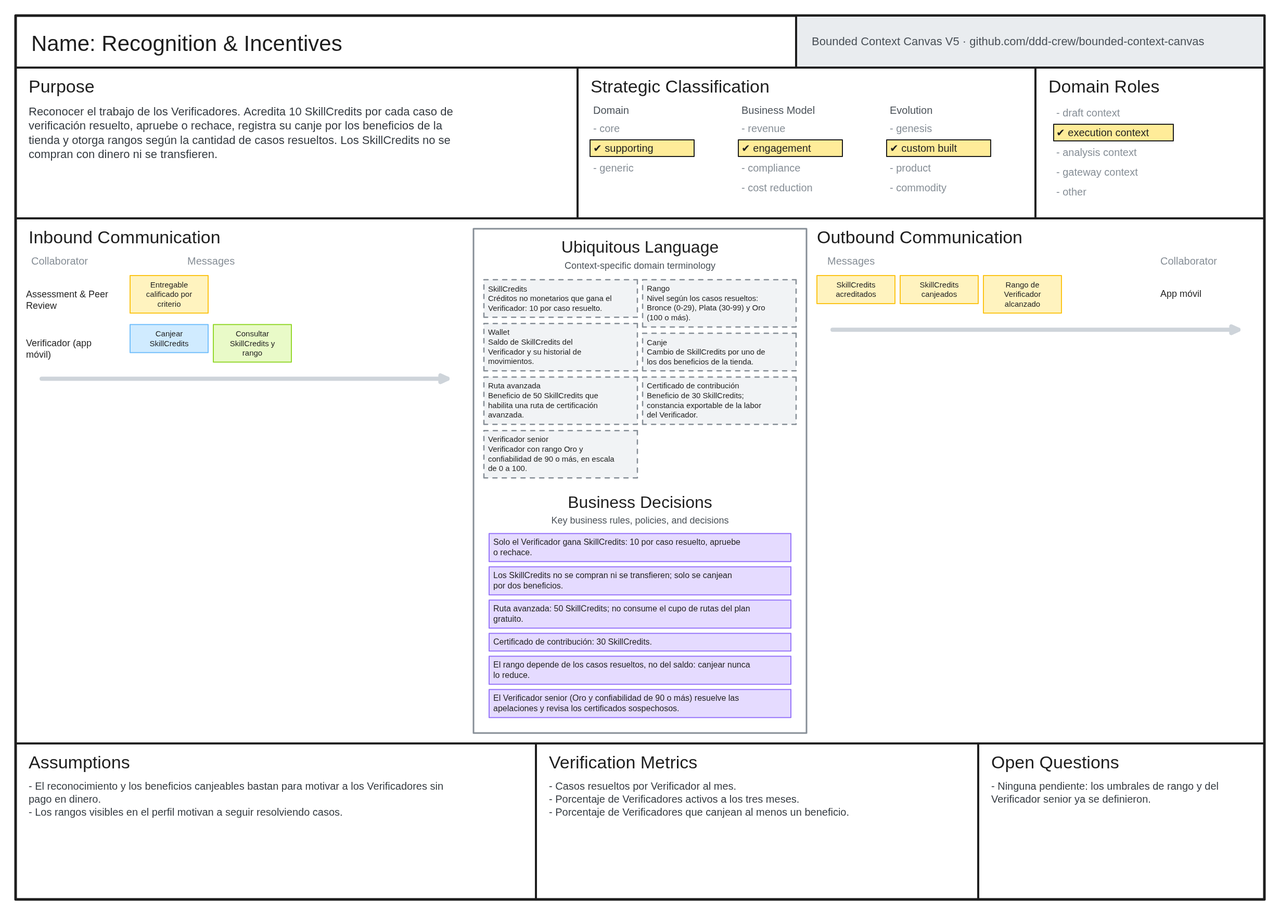
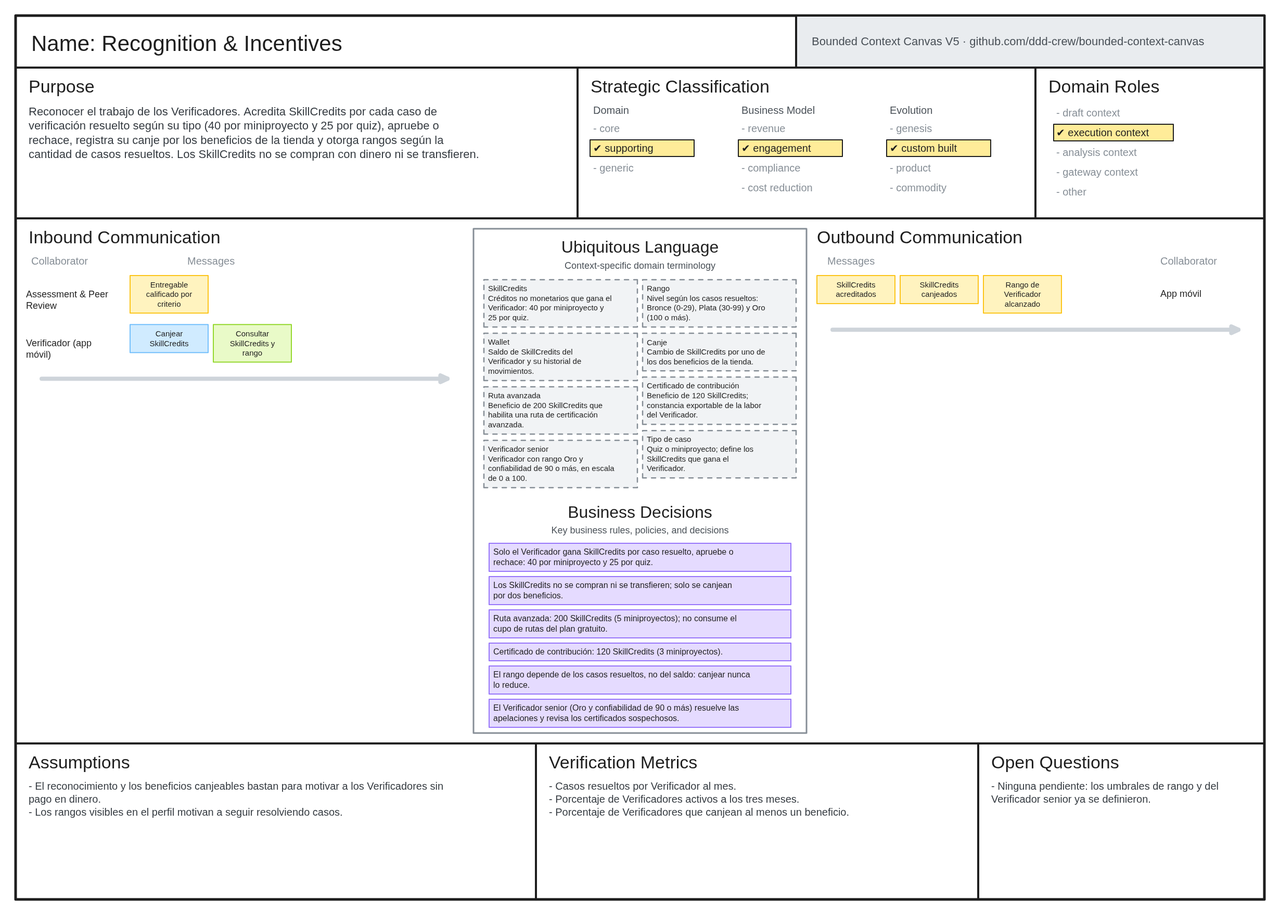
docs(report): per-case-type SkillCredits economy and scaled store prices

Changed region(s): [[0.3707, 0.3125, 0.6179, 0.8125], [0.0309, 0.0938, 0.3707, 0.1875], [0.5561, 0.4062, 0.587, 0.4375]]

diff --git a/upc-pre-02-1acc0238-4948-Innovify-report-avn1.md b/upc-pre-02-1acc0238-4948-Innovify-report-avn1.md
@@ -68,7 +68,7 @@ Octubre 2026
 | **v.01.Avn1** | 10/09/2026 | Alberca Saavedra, Víctor Manuel<br>Becerra Ninahuanca, Luis Angel<br>Lopez Montalvo, Kevin Edu<br>Komatsu Dueñas, David<br>Sulca Sánchez, Piero Angel | Se agregaron los siguientes tópicos:<br><br>**Student Outcome**<br>**Objetivos SMART**<br><br>**Capítulo I: Presentación**<br>1.1. Startup Profile<br>1.1.1. Descripción de la Startup<br>1.1.2. Perfiles de integrantes del equipo<br>1.2. Solution Profile<br>1.2.1. Antecedentes y problemática<br>1.2.2. Lean UX Process<br>1.2.2.1. Lean UX Problem Statements<br>1.2.2.2. Lean UX Assumptions<br>1.2.2.3. Lean UX Hypothesis Statements<br>1.2.2.4. Lean UX Canvas<br>1.3. Segmentos objetivo<br><br>**Capítulo II: Requirements Development and Software Solution Design**<br>2.1. Competidores<br>2.1.1. Análisis competitivo<br>2.1.2. Estrategias y tácticas frente a competidores<br>2.2. Entrevistas<br>2.2.1. Diseño de entrevistas<br>2.2.2. Registro de entrevistas<br>2.2.3. Análisis de entrevistas<br>2.3. Needfinding<br>2.3.1. User Personas<br>2.3.2. User Task Matrix<br>2.3.3. User Journey Mapping<br>2.3.4. Empathy Mapping<br>2.3.5. As-Is Scenario Mapping<br>2.4. Requirements specification<br>2.4.1. User Stories<br>2.4.2. Impact Mapping<br>2.4.3. Product Backlog<br>2.5. Strategic-Level Domain-Driven Design<br>2.5.1. EventStorming<br>2.5.1.1. Candidate Context Discovery<br>2.5.1.2. Domain Message Flows Modeling<br>2.5.1.3. Bounded Context Canvases<br>2.5.2. Context Mapping<br>2.5.3. Software Architecture<br>2.5.3.1. Software Architecture Context Level Diagrams<br>2.5.3.2. Software Architecture Container Level Diagrams<br>2.5.3.3. Software Architecture Deployment Diagrams<br>2.6. Tactical-Level Domain-Driven Design (los 7 Bounded Contexts: Identity & Access, Credential Verification, Learning Path Engine, Assessment & Peer Review, Reputation, Recognition & Incentives, Moderation & Disputes)<br>2.6.x.1. Domain Layer<br>2.6.x.2. Interface Layer<br>2.6.x.3. Application Layer<br>2.6.x.4. Infrastructure Layer<br>2.6.x.5. Bounded Context Software Architecture Component Level Diagrams<br>2.6.x.6. Bounded Context Software Architecture Code Level Diagrams<br>2.6.x.6.1. Bounded Context Domain Layer Class Diagrams<br>2.6.x.6.2. Bounded Context Database Design Diagram<br><br>**Conclusiones**<br>**Bibliografía** |
 | **v.02.TB1** | 07/10/2026 |  Alberca Saavedra, Víctor Manuel<br>Becerra Ninahuanca, Luis Angel<br>Lopez Montalvo, Kevin Edu<br>Komatsu Dueñas, David<br>Sulca Sánchez, Piero Angel | Se corrigieron y actualizaron los siguientes tópicos, a partir de las decisiones reales tomadas durante la construcción del backend:<br><br>**Capítulo I: Presentación**<br>1.1.1. Descripción de la Startup (modelo de negocio: suscripción mensual vía Google Play Billing, SkillCredits no adquiribles)<br>1.1.2. Perfiles de integrantes del equipo<br>1.2.1. Antecedentes y problemática (corrección de Identity & Access: dominio institucional exigido desde el registro)<br>1.2.2. Lean UX Process (pasarela de pago unificada a Google Play Billing)<br>1.3. Segmentos objetivo<br><br>**Capítulo II: Requirements Development and Software Solution Design**<br>2.1. Competidores<br>2.4.1. User Stories (corrección de US05, US06, US18, US22, US24, US25, US26; se difirieron US07, US19, US20; se agregaron TS11 y TS12)<br>2.4.3. Product Backlog (55 → 57 historias, 204 → 211 Story Points; columna Sprint completada)<br>2.5.1. EventStorming (pasarela de pago y validación de correo institucional)<br>2.5.2. Context Mapping (pasarela de pago, mecanismo de eventos de dominio entre Assessment & Peer Review, Reputation y Recognition & Incentives)<br>2.5.3.1. Software Architecture Context Level Diagrams<br>2.5.3.2. Software Architecture Container Level Diagrams (colapso de los ocho Bounded Contexts en un único contenedor de API, consistente con el nivel de un Container Diagram)<br>2.5.3.3. Software Architecture Deployment Diagrams (MySQL → PostgreSQL, corrección del origen de la llamada a ML Kit)<br>2.6.4. Bounded Context: Assessment & Peer Review (reescritura completa al modelo mínimo realmente implementado)<br>2.6.4.5. Component Diagram de Assessment & Peer Review<br>2.6.5.5. Component Diagram de Reputation<br>2.6.6. Bounded Context: Recognition & Incentives (renombrado de Wallet & Incentives) y su Component Diagram<br>2.6.8. Bounded Context: Subscription & Billing (pasarela renombrada a Google Play Billing; `charge()` corregido a `verifyPurchase()`)<br>Diagrama de Clases general (eliminación de la clase `CreditPurchase`, corrección de `VerifierProfile`, `VerificationCase`, `CreditTransaction`, `Subscription`)<br>Diagrama de Base de Datos general (migración completa a PostgreSQL, corrección de índices únicos parciales, eliminación de `credit_purchases`)<br><br>**Student Outcome** (acumulado con el aporte de TB1 de los cinco integrantes)<br>**Objetivos SMART** (ajuste del objetivo de Alberca Saavedra, Víctor Manuel)<br>**Project Report Collaboration Insights** (acumulado con la evidencia de TB1)<br>**Conclusiones** (tres párrafos nuevos sobre las contradicciones resueltas entre el diseño y la implementación real)<br><br>Se agregaron los siguientes tópicos nuevos:<br><br>**Capítulo III: Solution UI/UX Design**<br>3.1.1. Style Guidelines<br>3.1.2. Information Architecture<br>3.1.3. Landing Page UI Design<br>3.1.4. Mobile Applications UX/UI Design<br><br>**Capítulo IV: Product Implementation & Validation**<br>4.1. Software Configuration Management<br>4.1.1. Software Development Environment Configuration<br>4.1.2. Source Code Management<br>4.1.3. Source Code Style Guide & Coding Conventions<br>4.1.4. Software Deployment Configuration<br>4.2. Landing Page, Services & Applications Implementation<br>4.2.1. Sprint 1<br>4.2.1.1. Sprint Planning 1<br>4.2.1.2. Aspect Leaders and Collaborators<br>4.2.1.3. Sprint Backlog 1<br>4.2.1.4. Development Evidence for Sprint Review<br>4.2.1.5. Testing Suite Evidence for Sprint Review<br>4.2.1.6. Execution Evidence for Sprint Review<br>4.2.1.7. Services Documentation Evidence for Sprint Review<br>4.2.1.8. Software Deployment Evidence for Sprint Review<br>4.2.1.9. Team Collaboration Insights during Sprint |
 | **v.03.TB1** | 08/10/2026 | Komatsu Dueñas, David | Se corrigieron los siguientes tópicos:<br><br>**Capítulo I: Presentación**<br>1.1.1. Descripción de la Startup (modelo freemium, habilitación del Verificador en la primera versión y revisión del Verificador como decisión con observaciones)<br>1.1.2. Perfiles de integrantes del equipo (términos del Anexo F)<br>1.2.2.1. Lean UX Problem Statements (revisión del Verificador como decisión con observaciones, según el modelo implementado)<br><br>**Capítulo II: Requirements Development and Software Solution Design**<br>2.1. Competidores, 2.1.1. Análisis competitivo y 2.1.2. Estrategias y tácticas frente a competidores (roadmap.sh, Pluralsight y Platzi como competidores directos)<br>2.5.1. EventStorming (ajustes del modelo posteriores a la sesión)<br>2.3.3 y 2.3.4 (Journey Map y Empathy Map del segmento 2 alineados con el rol de Verificador)<br>2.6.4 y 2.6.8 (examen de ingreso y límite de intentos previstos para un sprint posterior; pasarela de pago Google Play Billing)<br>1.1.1, 1.3, 2.3, 2.3.6, 2.4, 2.5 y 2.6 (el rol de Coordinador se integra en el Verificador, que asume la supervisión del proceso; nombres de User Persona unificados: Valeria Ramos y Rodrigo Castillo)<br>2.4.1. User Stories (57 historias: 45 User Stories y 12 Technical Stories; se agregó el Epic EP10)<br>2.4.3. Product Backlog (totales de 211 Story Points y 145 Story Points en el Sprint 1; captura y URL público del tablero en Trello)<br>2.6.x.6. Bounded Context Software Architecture Code Level Diagrams (encabezado agregado en los Bounded Contexts 2.6.2 a 2.6.8)<br><br>**Capítulo III: Solution UI/UX Design**<br>3.1.2, 3.1.3 y 3.1.4 (diseño para dos roles, Estudiante y Verificador, este último con las funciones de supervisión)<br>3.1.4.2. Mobile Applications Wireflow Diagrams (notas completas de los Wireflows)<br><br>**Capítulo IV: Product Implementation & Validation**<br>4.2.1.1. Sprint Planning 1 (Velocity y Sum of Story Points de 145)<br>4.2.1.3. Sprint Backlog 1 (captura y URL público del tablero en Trello)<br><br>**Objetivos SMART** (dos objetivos por integrante, orientados al desarrollo profesional después del egreso)<br>**Formato general** (niveles de encabezado, numeración de figuras y tablas, índices y tabla de contenidos)<br>**Bibliografía** (organizada por categorías)<br>**Anexos** (nomenclatura de archivos y enlaces de acceso a la solución)<br><br>Se agregaron los siguientes tópicos nuevos:<br><br>2.3.6. Ubiquitous Language<br>**Glosario** |
-| **v.04.TB1** | 09/10/2026 | Sulca Sánchez, Piero Angel | Se corrigieron los siguientes tópicos:<br><br>**Student Outcome** (aporte de TB1 de Alberca Saavedra, Víctor Manuel con el stack Java)<br><br>**Capítulo II: Requirements Development and Software Solution Design**<br>2.4.1. User Stories (EP10, TS11 y TS12 alineados al backend Java: validación del esquema al arrancar, sin rol ni semilla del Coordinador)<br>2.5.3.2 y 2.5.3.3 (backend en Java 21 / Spring Boot; Landing Page en GitHub Pages)<br>2.6.1 y 2.6.4 (`Student` como único rol de cuenta; facades sin prefijo `I`)<br><br>**Capítulo III: Solution UI/UX Design**<br>Niveles de encabezado, títulos de las Tablas 12 y 13, roles Estudiante y Verificador en 3.1.2 y 3.1.3<br><br>**Capítulo IV: Product Implementation & Validation**<br>4.1. Software Configuration Management (migración del backend de C# / ASP.NET Core a Java / Spring Boot, Dockerfile, variables de entorno y convenciones reales del repositorio `SkillSwap-WebServices-Java`)<br>4.2.1.3 a 4.2.1.9 (commits reales del backend Java y del Landing Page, suite de pruebas JUnit 5 / MockMvc / Testcontainers, endpoint de apelación, URL pública del backend Java)<br><br>**Conclusiones** (migración de .NET a Java)<br>**Bibliografía** (documentación del stack Java)<br>**Anexos** (Anexo A con el repositorio y Swagger UI del backend Java y el prototipo y mock-ups en Figma; Índice de Tablas y de Figuras con numeración continua)<br><br>**SkillCredits y quiz** (1.1.1, 2.3.6, 2.5.1, 2.5.2, 2.6.6 y 3.1.4): los SkillCredits son canjeables por el Verificador, sin compra con dinero ni transferencia, por dos beneficios —ruta avanzada (50) y certificado de contribución (30)—; el rango depende de los casos resueltos y no del saldo; el quiz tiene 5 preguntas y se aprueba con 4 correctas (80%)<br><br>**Decisiones finales de negocio** (1.1.1, 2.1, 2.3.6, 2.4, 2.5, 2.6, 3.1 y 4.2.1): modelo freemium (plan gratuito con límites de rutas y escalamientos y suscripción mensual opcional de S/ 29,90, IGV incluido, vía Google Play Billing); rango por casos resueltos; 10 SkillCredits por caso resuelto; Verificador senior a cargo de la supervisión, las apelaciones y los certificados sospechosos; ruta construida a partir de la taxonomía de habilidades; TS09 con 409 ante saldo insuficiente; US27 movida al Sprint 1 (42 historias y 148 Story Points)<br><br>**Generación de ruta híbrida (LLM sobre el catálogo con respaldo por palabras clave) y opción de continuar con el plan gratuito en el onboarding** (1.1.1, 2.1.1, 2.3.6, 2.4, 2.5.1, 2.5.3.1, 2.6.3, 3.1.2.4, 3.1.4 y 4.2.1): Gemini interpreta la meta y selecciona habilidades solo del catálogo interno; el motor determinista calcula la brecha y ordena los nodos; si Gemini falla, se recurre a la coincidencia por palabras clave sobre el mismo catálogo (adaptador implementado en el Sprint 1; el adaptador Gemini se incorpora en el Sprint 2)<br><br>**Economía de planes y rangos** (1.1.1, 2.1.1, 2.1.2, 2.3.6, 2.4, 2.5.1, 2.6.7, 2.6.8 y 3.1.4): se definieron los límites del plan gratuito y del plan mensual, y los umbrales de los rangos Bronce, Plata y Oro y del Verificador senior<br><br>**Meta de atención, cancelación y RevenueCat** (1.2.2, 2.3.6, 2.4, 2.5.1.3, 2.5.2, 2.5.3, 2.6.3, 2.6.8, 4.2.1, Conclusiones y Bibliografía): la meta del 85% de casos resueltos en 48 horas se acota al plan mensual; al vencer el plan mensual, el Estudiante vuelve al plan gratuito sin perder datos y sus rutas activas adicionales pasan al estado pausada; Google Play Billing se integra mediante RevenueCat |
+| **v.04.TB1** | 09/10/2026 | Sulca Sánchez, Piero Angel | Se corrigieron los siguientes tópicos:<br><br>**Student Outcome** (aporte de TB1 de Alberca Saavedra, Víctor Manuel con el stack Java)<br><br>**Capítulo II: Requirements Development and Software Solution Design**<br>2.4.1. User Stories (EP10, TS11 y TS12 alineados al backend Java: validación del esquema al arrancar, sin rol ni semilla del Coordinador)<br>2.5.3.2 y 2.5.3.3 (backend en Java 21 / Spring Boot; Landing Page en GitHub Pages)<br>2.6.1 y 2.6.4 (`Student` como único rol de cuenta; facades sin prefijo `I`)<br><br>**Capítulo III: Solution UI/UX Design**<br>Niveles de encabezado, títulos de las Tablas 12 y 13, roles Estudiante y Verificador en 3.1.2 y 3.1.3<br><br>**Capítulo IV: Product Implementation & Validation**<br>4.1. Software Configuration Management (migración del backend de C# / ASP.NET Core a Java / Spring Boot, Dockerfile, variables de entorno y convenciones reales del repositorio `SkillSwap-WebServices-Java`)<br>4.2.1.3 a 4.2.1.9 (commits reales del backend Java y del Landing Page, suite de pruebas JUnit 5 / MockMvc / Testcontainers, endpoint de apelación, URL pública del backend Java)<br><br>**Conclusiones** (migración de .NET a Java)<br>**Bibliografía** (documentación del stack Java)<br>**Anexos** (Anexo A con el repositorio y Swagger UI del backend Java y el prototipo y mock-ups en Figma; Índice de Tablas y de Figuras con numeración continua)<br><br>**SkillCredits y quiz** (1.1.1, 2.3.6, 2.5.1, 2.5.2, 2.6.6 y 3.1.4): los SkillCredits son canjeables por el Verificador, sin compra con dinero ni transferencia, por dos beneficios —ruta avanzada (50) y certificado de contribución (30)—; el rango depende de los casos resueltos y no del saldo; el quiz tiene 5 preguntas y se aprueba con 4 correctas (80%)<br><br>**Decisiones finales de negocio** (1.1.1, 2.1, 2.3.6, 2.4, 2.5, 2.6, 3.1 y 4.2.1): modelo freemium (plan gratuito con límites de rutas y escalamientos y suscripción mensual opcional de S/ 29,90, IGV incluido, vía Google Play Billing); rango por casos resueltos; 10 SkillCredits por caso resuelto; Verificador senior a cargo de la supervisión, las apelaciones y los certificados sospechosos; ruta construida a partir de la taxonomía de habilidades; TS09 con 409 ante saldo insuficiente; US27 movida al Sprint 1 (42 historias y 148 Story Points)<br><br>**Generación de ruta híbrida (LLM sobre el catálogo con respaldo por palabras clave) y opción de continuar con el plan gratuito en el onboarding** (1.1.1, 2.1.1, 2.3.6, 2.4, 2.5.1, 2.5.3.1, 2.6.3, 3.1.2.4, 3.1.4 y 4.2.1): Gemini interpreta la meta y selecciona habilidades solo del catálogo interno; el motor determinista calcula la brecha y ordena los nodos; si Gemini falla, se recurre a la coincidencia por palabras clave sobre el mismo catálogo (adaptador implementado en el Sprint 1; el adaptador Gemini se incorpora en el Sprint 2)<br><br>**Economía de planes y rangos** (1.1.1, 2.1.1, 2.1.2, 2.3.6, 2.4, 2.5.1, 2.6.7, 2.6.8 y 3.1.4): se definieron los límites del plan gratuito y del plan mensual, y los umbrales de los rangos Bronce, Plata y Oro y del Verificador senior<br><br>**Meta de atención, cancelación y RevenueCat** (1.2.2, 2.3.6, 2.4, 2.5.1.3, 2.5.2, 2.5.3, 2.6.3, 2.6.8, 4.2.1, Conclusiones y Bibliografía): la meta del 85% de casos resueltos en 48 horas se acota al plan mensual; al vencer el plan mensual, el Estudiante vuelve al plan gratuito sin perder datos y sus rutas activas adicionales pasan al estado pausada; Google Play Billing se integra mediante RevenueCat<br><br>**Economía de SkillCredits por tipo de caso** (1.1.1, 2.3.6, 2.4.1, 2.5.1, 2.5.1.3, 2.6.4, 2.6.6, 3.1.4 y 4.2.1): se reemplazaron los 10 SkillCredits por caso y los precios de 50 y 30; el Verificador recibe 40 SkillCredits por un miniproyecto resuelto y 25 por un quiz, y la ruta avanzada pasa a costar 200 y el certificado de contribución, 120, para que un beneficio siga requiriendo varios casos resueltos; el caso de verificación incorpora su tipo (`caseType`) |
 
 <div style="page-break-after: always;"></div>
 
@@ -269,7 +269,7 @@ Innovify es una startup tecnológica del sector educativo que desarrolla solucio
 
 SkillSwap organiza la experiencia a partir del objetivo declarado por el Estudiante en lenguaje natural: un modelo de inteligencia artificial generativa lo interpreta y selecciona las habilidades correspondientes, siempre dentro de la taxonomía de habilidades de la plataforma, y a partir de ellas el sistema calcula lo que le falta demostrar y ordena los pasos según sus prerrequisitos para proponer una ruta de certificación, compuesta por nodos que se evalúan mediante un *quiz* o un miniproyecto; toda ruta incluye un mínimo de nodos con entrega práctica. El Estudiante puede incorporar certificados externos, cuyos datos se extraen mediante reconocimiento óptico de caracteres con ML Kit para facilitar su registro y análisis de riesgo documental. Esta extracción no demuestra por sí misma el dominio de la habilidad: la comprobación se realiza mediante esas evaluaciones aplicadas, cuya generación puede ser asistida por inteligencia artificial. Cuando la evaluación automática no resulta suficiente, el caso se asigna a un Verificador habilitado, quien revisa el trabajo guiándose por una rúbrica, decide si lo aprueba o lo rechaza y registra sus observaciones; si no lo aprueba, el Estudiante recibe esas observaciones para reforzar lo necesario. Al completar la ruta, el Estudiante presenta una demostración final asíncrona que también califica un Verificador habilitado, de modo que ninguna certificación se emite sin que una persona haya evaluado su trabajo. La certificación queda respaldada por el historial de evaluaciones y revisiones realizadas en la plataforma.
 
-Para revisar casos de otros usuarios, el Estudiante debe completar previamente su propia ruta de certificación y aprobar un examen de ingreso relacionado con la habilidad que desea verificar. En la primera versión de la plataforma, la habilitación se otorga al completar el nodo de esa habilidad en la propia ruta; el examen de ingreso se incorpora en un sprint posterior. Una vez habilitado, puede participar como Verificador y recibir 10 SkillCredits por cada caso que resuelve, lo apruebe o lo rechace. Los SkillCredits constituyen unidades de reconocimiento no monetarias asociadas a su participación y experiencia como Verificador; nunca pueden comprarse con dinero ni transferirse, pero el Verificador puede canjearlos por beneficios dentro de la plataforma: una ruta avanzada o un certificado de contribución. Por separado, el Verificador obtiene rangos visibles en su perfil profesional según la cantidad de casos de verificación que resuelve, no según su saldo de SkillCredits, de modo que canjear créditos nunca reduce su rango. Los rangos son tres: Bronce, de 0 a 29 casos resueltos; Plata, de 30 a 99; y Oro, desde 100 casos resueltos.
+Para revisar casos de otros usuarios, el Estudiante debe completar previamente su propia ruta de certificación y aprobar un examen de ingreso relacionado con la habilidad que desea verificar. En la primera versión de la plataforma, la habilitación se otorga al completar el nodo de esa habilidad en la propia ruta; el examen de ingreso se incorpora en un sprint posterior. Una vez habilitado, puede participar como Verificador y recibir SkillCredits por cada caso que resuelve, lo apruebe o lo rechace, según el tipo de caso: 40 SkillCredits por un miniproyecto y 25 por un *quiz*, porque revisar un miniproyecto exige más trabajo que revisar un *quiz*. Los SkillCredits constituyen unidades de reconocimiento no monetarias asociadas a su participación y experiencia como Verificador; nunca pueden comprarse con dinero ni transferirse, pero el Verificador puede canjearlos por beneficios dentro de la plataforma: una ruta avanzada, por 200 SkillCredits, o un certificado de contribución, por 120. Los precios se escalaron junto con los montos por caso para que obtener un beneficio siga requiriendo varios casos resueltos (5 miniproyectos u 8 *quizzes* para la ruta avanzada, y 3 miniproyectos o alrededor de 5 *quizzes* para el certificado); si solo hubieran subido los montos por caso, un beneficio costaría alrededor de un caso y perdería su valor. Por separado, el Verificador obtiene rangos visibles en su perfil profesional según la cantidad de casos de verificación que resuelve, no según su saldo de SkillCredits, de modo que canjear créditos nunca reduce su rango. Los rangos son tres: Bronce, de 0 a 29 casos resueltos; Plata, de 30 a 99; y Oro, desde 100 casos resueltos.
 
 Innovify plantea para SkillSwap un modelo de negocio B2C freemium. Todo Estudiante empieza con un plan gratuito (S/ 0), que le permite tener 1 ruta activa a la vez y hasta 3 rutas en total, y escalar 3 casos al mes a un Verificador, que se revisan en un plazo de hasta 5 días hábiles. Cuando llega a uno de esos límites, la aplicación le muestra la pantalla "Alcanzaste el límite de tu plan", donde puede pasar al plan mensual o continuar con el plan gratuito. El plan mensual cuesta S/ 29,90 al mes, IGV incluido, se cobra mediante Google Play Billing y amplía esos límites: hasta 3 rutas activas a la vez, sin tope de rutas en total, y 10 escalamientos al mes a un Verificador, cuyos casos se revisan en 48 horas; además, reduce los tiempos de espera. La ruta avanzada que un Verificador obtiene al canjear SkillCredits no consume el cupo de rutas del plan gratuito. Ningún plan compra la aprobación: las evaluaciones y los criterios son los mismos para todos. No existen pagos directos ni comisiones entre Estudiantes y Verificadores. Además, la supervisión del proceso la ejercen los Verificadores senior, es decir, los Verificadores que alcanzaron el rango Oro y mantienen una confiabilidad de 90 o más, en la escala de 0 a 100 con la que la plataforma la mide: monitorean la confiabilidad de las revisiones, resuelven las apelaciones y las situaciones que requieren reevaluación, revisan los certificados sospechosos y consultan métricas generales sobre la actividad del ecosistema.
 
@@ -1236,6 +1236,7 @@ En esta sección se presenta el lenguaje ubicuo de SkillSwap: los términos del 
 | Assessment Attempt | Intento de evaluación | Cada vez que el Estudiante rinde la evaluación de un nodo, con su puntaje y resultado. |
 | Sub-topic | Sub-tema | Parte específica de una habilidad que se usa para indicar al Estudiante qué debe reforzar. |
 | Verification Case | Caso de verificación | Revisión que se abre cuando un intento no se aprueba y que se asigna a un Verificador habilitado. |
+| Case Type | Tipo de caso | Clasificación de un caso de verificación según la evaluación que lo originó: quiz o miniproyecto. Determina cuántos SkillCredits recibe el Verificador al resolverlo. |
 | Rubric | Rúbrica | Conjunto de criterios con los que el Verificador evalúa el trabajo del Estudiante y justifica su decisión. |
 | Evidence | Evidencia | Material que respalda un caso, como el intento de evaluación o un enlace a un trabajo del Estudiante. |
 | Case Deadline | Plazo del caso | Tiempo máximo que tiene un Verificador para decidir un caso; al vencer, el caso se reasigna. |
@@ -1243,10 +1244,10 @@ En esta sección se presenta el lenguaje ubicuo de SkillSwap: los términos del 
 | Entrance Exam | Examen de ingreso | Prueba que un Estudiante aprueba para habilitarse como Verificador de una habilidad. Se incorpora en un sprint posterior; mientras tanto, la habilitación exige completar el nodo de la habilidad. |
 | Verifier Reliability | Confiabilidad del Verificador | Indicador de la calidad de las decisiones de un Verificador, calculado a partir de sus casos resueltos y revertidos y expresado en una escala de 0 a 100. |
 | Employability Score | Puntaje de empleabilidad | Indicador que resume las habilidades demostradas por un Estudiante dentro de la plataforma. |
-| SkillCredits | SkillCredits | Unidades de reconocimiento no monetarias que recibe un Verificador por cada caso resuelto (10 SkillCredits por caso, lo apruebe o lo rechace); forman un saldo canjeable por beneficios de la plataforma y nunca se pueden comprar con dinero ni transferir. |
+| SkillCredits | SkillCredits | Unidades de reconocimiento no monetarias que recibe un Verificador por cada caso resuelto (40 SkillCredits por un miniproyecto y 25 por un quiz, lo apruebe o lo rechace); forman un saldo canjeable por beneficios de la plataforma y nunca se pueden comprar con dinero ni transferir. |
 | Wallet | Billetera | Registro del saldo de SkillCredits de un usuario y de sus movimientos. |
 | Redemption | Canje | Operación con la que el Verificador descuenta SkillCredits de su saldo a cambio de un beneficio canjeable. |
-| Redeemable Benefit | Beneficio canjeable | Beneficio que el Verificador obtiene al canjear SkillCredits: la ruta avanzada (50 SkillCredits), que pone a su disposición una ruta de certificación avanzada, o el certificado de contribución (30 SkillCredits), que acredita su labor como Verificador. |
+| Redeemable Benefit | Beneficio canjeable | Beneficio que el Verificador obtiene al canjear SkillCredits: la ruta avanzada (200 SkillCredits), que pone a su disposición una ruta de certificación avanzada, o el certificado de contribución (120 SkillCredits), que acredita su labor como Verificador. |
 | Rank | Rango | Nivel visible en el perfil del Verificador que se alcanza según la cantidad de casos de verificación resueltos, no según el saldo de SkillCredits; por eso, canjear créditos no lo reduce. Hay tres rangos: Bronce (0 a 29 casos resueltos), Plata (30 a 99) y Oro (100 o más). |
 | Subscription | Suscripción | Plan mensual opcional, de S/ 29,90 con IGV incluido y cobrado mediante Google Play Billing, integrado a través de RevenueCat, que amplía los límites del plan gratuito (1 ruta activa a la vez, hasta 3 rutas en total y 3 escalamientos al mes, revisados en hasta 5 días hábiles) a hasta 3 rutas activas a la vez, sin tope de rutas en total, y 10 escalamientos al mes, revisados en 48 horas, y reduce los tiempos de espera. |
 | Dispute | Disputa | Caso que revisa un Verificador senior, originado por un certificado sospechoso o por el reporte de una decisión. |
@@ -1625,7 +1626,7 @@ En esta sección se especifican los requisitos funcionales y técnicos de SkillS
   <tr><th colspan="4">Description</th></tr>
   <tr><td colspan="4">Como Verificador, quiero recibir SkillCredits por cada caso que resuelvo, para que mi labor de verificación sea reconocida.</td></tr>
   <tr><th colspan="4">Acceptance Criteria</th></tr>
-  <tr><td colspan="4"><strong>Escenario 1: Acreditación tras la resolución</strong><br><strong>Dado que</strong> el Verificador resuelve un caso de verificación<br><strong>Cuando</strong> el sistema registra la resolución<br><strong>Entonces</strong> el sistema acredita 10 SkillCredits en su billetera, sea que el caso se apruebe o se rechace<br><strong>Y</strong> registra una transacción de tipo ganado<br><br><strong>Escenario 2: Decisión revertida</strong><br><strong>Dado que</strong> otro Verificador revierte la decisión del Verificador original tras una disputa<br><strong>Cuando</strong> el sistema registra la reversión<br><strong>Entonces</strong> el sistema no acredita SkillCredits adicionales por ese caso<br><strong>Y</strong> reduce la confiabilidad del Verificador</td></tr>
+  <tr><td colspan="4"><strong>Escenario 1: Acreditación tras resolver un miniproyecto</strong><br><strong>Dado que</strong> el Verificador resuelve un caso de verificación de tipo miniproyecto<br><strong>Cuando</strong> el sistema registra la resolución<br><strong>Entonces</strong> el sistema acredita 40 SkillCredits en su billetera, sea que el caso se apruebe o se rechace<br><strong>Y</strong> registra una transacción de tipo ganado<br><br><strong>Escenario 2: Acreditación tras resolver un quiz</strong><br><strong>Dado que</strong> el Verificador resuelve un caso de verificación de tipo quiz<br><strong>Cuando</strong> el sistema registra la resolución<br><strong>Entonces</strong> el sistema acredita 25 SkillCredits en su billetera, sea que el caso se apruebe o se rechace<br><strong>Y</strong> registra una transacción de tipo ganado<br><br><strong>Escenario 3: Decisión revertida</strong><br><strong>Dado que</strong> otro Verificador revierte la decisión del Verificador original tras una disputa<br><strong>Cuando</strong> el sistema registra la reversión<br><strong>Entonces</strong> el sistema no acredita SkillCredits adicionales por ese caso<br><strong>Y</strong> reduce la confiabilidad del Verificador</td></tr>
 </table>
 
 <table>
@@ -1645,7 +1646,7 @@ En esta sección se especifican los requisitos funcionales y técnicos de SkillS
   <tr><th colspan="4">Description</th></tr>
   <tr><td colspan="4">Como Verificador, quiero canjear mis SkillCredits por beneficios de la tienda, para aprovechar el reconocimiento que acumulé.</td></tr>
   <tr><th colspan="4">Acceptance Criteria</th></tr>
-  <tr><td colspan="4"><strong>Escenario 1: Canje con saldo suficiente</strong><br><strong>Dado que</strong> el Verificador tiene un saldo mayor o igual al costo de un beneficio<br><strong>Cuando</strong> solicita el canje de ese beneficio<br><strong>Entonces</strong> el sistema descuenta el costo de su saldo<br><strong>Y</strong> registra una transacción de tipo canjeado<br><br><strong>Escenario 2: Canje con saldo insuficiente</strong><br><strong>Dado que</strong> el Verificador tiene un saldo menor al costo de un beneficio<br><strong>Cuando</strong> solicita el canje de ese beneficio<br><strong>Entonces</strong> el sistema rechaza el canje<br><strong>Y</strong> mantiene su saldo sin cambios</td></tr>
+  <tr><td colspan="4"><strong>Escenario 1: Canje con saldo suficiente</strong><br><strong>Dado que</strong> el Verificador tiene un saldo mayor o igual al costo de un beneficio (200 SkillCredits la ruta avanzada o 120 el certificado de contribución)<br><strong>Cuando</strong> solicita el canje de ese beneficio<br><strong>Entonces</strong> el sistema descuenta el costo de su saldo<br><strong>Y</strong> registra una transacción de tipo canjeado<br><br><strong>Escenario 2: Canje con saldo insuficiente</strong><br><strong>Dado que</strong> el Verificador tiene un saldo menor al costo de un beneficio<br><strong>Cuando</strong> solicita el canje de ese beneficio<br><strong>Entonces</strong> el sistema rechaza el canje<br><strong>Y</strong> mantiene su saldo sin cambios</td></tr>
 </table>
 
 <table>
@@ -2257,7 +2258,7 @@ En la primera fase, las políticas envían el correo de verificación cuando el 
 
 *Nota.* Políticas, en morado, y comandos del sistema del registro, la suscripción y el registro de certificados. Elaboración propia.
 
-En la evaluación se concentran las reglas de negocio del modelo. El quiz se genera con preguntas nuevas al iniciar el nodo o al terminar el periodo de espera, y al agotar los intentos comienza la espera. Al enviar un entregable se abre un caso, siempre que el plan tenga escalamientos disponibles; al abrir el caso se asigna un Verificador y, si vence el plazo, el caso se reasigna. La política central es el cálculo de la aprobación: cuando el Verificador califica el entregable, el sistema calcula el resultado contra el umbral de la rúbrica y, si no lo alcanza, devuelve los criterios no cumplidos. Cada calificación acredita SkillCredits al Verificador, apruebe o rechace, y recalcula su confiabilidad; cuando la cantidad de casos resueltos por el Verificador cruza un umbral (30 casos para Plata y 100 para Oro), se otorga el rango correspondiente.
+En la evaluación se concentran las reglas de negocio del modelo. El quiz se genera con preguntas nuevas al iniciar el nodo o al terminar el periodo de espera, y al agotar los intentos comienza la espera. Al enviar un entregable se abre un caso, siempre que el plan tenga escalamientos disponibles; al abrir el caso se asigna un Verificador y, si vence el plazo, el caso se reasigna. La política central es el cálculo de la aprobación: cuando el Verificador califica el entregable, el sistema calcula el resultado contra el umbral de la rúbrica y, si no lo alcanza, devuelve los criterios no cumplidos. Cada calificación acredita SkillCredits al Verificador según el tipo de caso (40 por un miniproyecto y 25 por un quiz), apruebe o rechace, y recalcula su confiabilidad; cuando la cantidad de casos resueltos por el Verificador cruza un umbral (30 casos para Plata y 100 para Oro), se otorga el rango correspondiente.
 
 **Figura 44**
 
@@ -2612,7 +2613,7 @@ Reputation es un contexto de análisis: no ejecuta el proceso principal, sino qu
 
 *Nota.* Bounded Context Canvas del contexto Reputation, elaborado con la plantilla v5 de ddd-crew. Elaboración propia.
 
-Recognition & Incentives reconoce el trabajo de los Verificadores. Sus reglas reflejan decisiones del modelo de negocio: los SkillCredits se ganan por cada revisión, apruebe o rechace, para no incentivar decisiones en un sentido, y nunca se compran con dinero ni se transfieren; el Verificador puede canjearlos por los dos beneficios de la tienda: una ruta avanzada o un certificado de contribución. El rango no depende del saldo de SkillCredits, sino de la cantidad de casos resueltos, de modo que canjear créditos no lo reduce. Sus capacidades son acreditar SkillCredits, registrar su canje y otorgar rangos por umbral de casos resueltos, y la acreditación depende únicamente de los eventos de Assessment & Peer Review. Los umbrales de rango quedaron definidos así: Bronce, de 0 a 29 casos resueltos; Plata, de 30 a 99; y Oro, desde 100. El rango Oro, junto con una confiabilidad de 90 o más, habilita al Verificador senior.
+Recognition & Incentives reconoce el trabajo de los Verificadores. Sus reglas reflejan decisiones del modelo de negocio: los SkillCredits se ganan por cada revisión, apruebe o rechace, para no incentivar decisiones en un sentido; el monto depende del tipo de caso, 40 por un miniproyecto y 25 por un quiz, porque revisar un miniproyecto exige más trabajo; nunca se compran con dinero ni se transfieren, y el Verificador puede canjearlos por los dos beneficios de la tienda: una ruta avanzada, por 200 SkillCredits, o un certificado de contribución, por 120, precios escalados para que un beneficio siga requiriendo varios casos resueltos. El rango no depende del saldo de SkillCredits, sino de la cantidad de casos resueltos, de modo que canjear créditos no lo reduce. Sus capacidades son acreditar SkillCredits, registrar su canje y otorgar rangos por umbral de casos resueltos, y la acreditación depende únicamente de los eventos de Assessment & Peer Review. Los umbrales de rango quedaron definidos así: Bronce, de 0 a 29 casos resueltos; Plata, de 30 a 99; y Oro, desde 100. El rango Oro, junto con una confiabilidad de 90 o más, habilita al Verificador senior.
 
 **Figura 67**
 
@@ -3529,6 +3530,7 @@ Atributos
 | verifierUserId | int (nullable) | Verificador asignado, nulo hasta la asignación o si no hay candidatos disponibles. |
 | pathNodeId | int | Nodo de la ruta (Learning Path Engine) al que corresponde el caso. |
 | skillTag | string | Habilidad en evaluación. |
+| caseType | enum | Tipo de caso, según la evaluación del nodo que lo originó: `QUIZ` o `MINI_PROJECT`. Determina cuántos SkillCredits recibe el Verificador al resolverlo (25 o 40). |
 | status | CaseStatus (VO) | Estado actual del caso. |
 | decision | ReviewDecision (VO, nullable) | Resultado de la revisión, nulo hasta resolverse. |
 | rubricNotes | string (nullable, 1-2000 caracteres) | Observaciones del Verificador al resolver el caso; obligatorias al resolver. |
@@ -3905,7 +3907,7 @@ El modelado de base de datos de Reputation pertenece a las tablas `verifier_reli
 
 #### 2.6.6.1. Domain Layer
 
-La capa de dominio de Recognition & Incentives concentra las reglas de negocio de la billetera de SkillCredits — créditos internos no monetarios — que un Verificador acumula al resolver casos de verificación (10 SkillCredits por caso resuelto, lo apruebe o lo rechace), y que ese mismo Verificador puede canjear por beneficios dentro de la plataforma; los SkillCredits nunca se compran con dinero ni se transfieren entre usuarios. A diferencia del modelo de tutorías original, no existe transferencia de dinero real entre usuarios ni comisión de plataforma.
+La capa de dominio de Recognition & Incentives concentra las reglas de negocio de la billetera de SkillCredits — créditos internos no monetarios — que un Verificador acumula al resolver casos de verificación (según el tipo de caso: 40 SkillCredits por un miniproyecto y 25 por un quiz, lo apruebe o lo rechace), y que ese mismo Verificador puede canjear por beneficios dentro de la plataforma; los SkillCredits nunca se compran con dinero ni se transfieren entre usuarios. A diferencia del modelo de tutorías original, no existe transferencia de dinero real entre usuarios ni comisión de plataforma.
 
 **1. Aggregate Root: Wallet**
 
@@ -3980,7 +3982,7 @@ Descripción: Define el costo en SkillCredits de cada `RedemptionItem`, desacopl
 
 Métodos
 
-- `calculateCost(RedemptionItem item)`: Retorna la cantidad de `Credits` requerida para canjear el beneficio indicado: 50 SkillCredits para `ADVANCED_PATH_UNLOCK` y 30 SkillCredits para `CONTRIBUTION_CERTIFICATE`.
+- `calculateCost(RedemptionItem item)`: Retorna la cantidad de `Credits` requerida para canjear el beneficio indicado: 200 SkillCredits para `ADVANCED_PATH_UNLOCK` (equivalentes a 5 miniproyectos u 8 quizzes) y 120 SkillCredits para `CONTRIBUTION_CERTIFICATE` (3 miniproyectos o alrededor de 5 quizzes).
 
 **7. Repository: WalletRepository, CreditTransactionRepository**
 
@@ -4026,7 +4028,7 @@ Del lado del cliente móvil, el endpoint de canje (`redeem`) requiere que el usu
 | Nombre | Descripción | Resumen de Lógica |
 |---|---|---|
 | CreateWalletCommandHandler | Procesa la creación de la billetera inicial. | Recibe el evento desde Identity & Access tras el registro de un nuevo usuario, instancia `Wallet` con saldo en cero y lo persiste. |
-| CreditVerifierCommandHandler | Procesa la acreditación de créditos ganados. | Recibe el evento desde Assessment & Peer Review tras la resolución de un `VerificationCase`, sea `APPROVED` o `REJECTED`, ejecuta `credit()` con 10 SkillCredits (`CreditRewards.PER_RESOLVED_CASE`) sobre el `Wallet` del Verificador y registra la `CreditTransaction` de tipo `EARNED`. |
+| CreditVerifierCommandHandler | Procesa la acreditación de créditos ganados. | Recibe el evento desde Assessment & Peer Review tras la resolución de un `VerificationCase`, sea `APPROVED` o `REJECTED`, ejecuta `credit()` con el monto que `CreditRewards` asigna al `caseType` del caso (40 SkillCredits para `MINI_PROJECT` y 25 para `QUIZ`) sobre el `Wallet` del Verificador y registra la `CreditTransaction` de tipo `EARNED`. |
 | RedeemCommandHandler | Procesa el canje de un beneficio. | Calcula el costo mediante `RedemptionPricing`, valida saldo suficiente, ejecuta `debit()` sobre el `Wallet` y registra la `CreditTransaction` de tipo `REDEEMED`. |
 | GetWalletBalanceQueryHandler / GetWalletTransactionsQueryHandler | Recuperan el saldo o historial solicitado. | Consultan el repositorio correspondiente. |
 
@@ -4798,7 +4800,7 @@ Esta sección presenta los mock-ups de alta fidelidad de la aplicación, resulta
   <img src="images-doc/cap3-mobile-mockups-verificador.png" alt="Mock-ups de la aplicación móvil - Verificador" width="1000">
 </p>
 
-*Nota.* Pantallas del Verificador. El acceso al rol se obtiene con un examen de ingreso, previsto para un sprint posterior (en la primera versión basta con completar el nodo de la habilidad); el home prioriza los casos por urgencia del plazo y aplica revisión ciega ("Estudiante anónimo") para reducir el sesgo; la revisión del caso combina la evidencia, el puntaje preliminar de la IA con su nivel de confianza y una rúbrica de 4 niveles que sirve de guía para la decisión, que el Verificador registra como aprobación o rechazo con sus observaciones; y la billetera muestra los SkillCredits ganados, su historial y la tienda de beneficios, que ofrece dos beneficios canjeables: la ruta avanzada (50 SkillCredits) y el certificado de contribución (30 SkillCredits). Elaboración propia.
+*Nota.* Pantallas del Verificador. El acceso al rol se obtiene con un examen de ingreso, previsto para un sprint posterior (en la primera versión basta con completar el nodo de la habilidad); el home prioriza los casos por urgencia del plazo y aplica revisión ciega ("Estudiante anónimo") para reducir el sesgo; la revisión del caso combina la evidencia, el puntaje preliminar de la IA con su nivel de confianza y una rúbrica de 4 niveles que sirve de guía para la decisión, que el Verificador registra como aprobación o rechazo con sus observaciones; y la billetera muestra los SkillCredits ganados, su historial y la tienda de beneficios, que ofrece dos beneficios canjeables: la ruta avanzada (200 SkillCredits) y el certificado de contribución (120 SkillCredits). Elaboración propia.
 
 #### 3.1.4.4. Mobile Applications User Flow Diagrams
 
@@ -5286,11 +5288,11 @@ void appeal_goesToAnotherVerifierWhoseApprovalCompletesTheNode() throws Exceptio
 | Assessment & Peer Review | Application / Infrastructure / Interface | `AssessmentAttemptCommandServiceImplTest`, `CaseAssignmentServiceImplTest`, `VerificationCaseCommandServiceImplTest`, `VerifierProfileCommandServiceImplTest`, `VerifierProfileContextFacadeImplTest`, `QueryServicesImplTest`, `AssessmentPeerReviewMessagesTest`, `AssessmentPeerReviewConvertersTest`, `AssessmentPeerReviewPersistenceTest`, `AssessmentPeerReviewServicesIntegrationTest`, `AssessmentPeerReviewActionResultAssemblerTest`, `AssessmentPeerReviewResourceAssemblersTest`, `AssessmentPeerReviewApiIntegrationTest` | Intentos, asignación, resolución y apelación de casos, persistencia y endpoints REST |
 | Reputation | Domain | `VerifierReliabilityTest`, `StudentEmployabilityScoreTest`, `ReputationCalculatorsTest`, `ScoreValueObjectsTest` | Agregados de reputación y calculadoras de confiabilidad y empleabilidad |
 | Reputation | Application / Infrastructure / Interface | `ReputationCommandServiceImplTest`, `ReputationQueryServicesImplTest`, `ReputationEventHandlersTest`, `ReputationMessagesTest`, `ReputationEventWiringTest`, `ReputationPersistenceTest`, `ReputationActionResultAssemblerTest`, `ReputationResourceAssemblersTest`, `ReputationApiIntegrationTest` | Reacción a eventos de dominio, persistencia y endpoints |
-| Recognition & Incentives | Domain | `WalletTest`, `CreditTransactionTest`, `CreditsTest`, `RecognitionIncentivesServicesTest` | Agregado `Wallet`, movimientos y precios de canje (50 y 30 SkillCredits) |
+| Recognition & Incentives | Domain | `WalletTest`, `CreditTransactionTest`, `CreditsTest`, `RecognitionIncentivesServicesTest` | Agregado `Wallet`, movimientos y precios de canje (200 y 120 SkillCredits) |
 | Recognition & Incentives | Application / Infrastructure / Interface | `WalletCommandServiceImplTest`, `WalletQueryServiceImplTest`, `RecognitionIncentivesEventHandlersTest`, `RecognitionIncentivesMessagesTest`, `RecognitionIncentivesEventWiringTest`, `RecognitionIncentivesPersistenceTest`, `RecognitionIncentivesActionResultAssemblerTest`, `RecognitionIncentivesResourceAssemblersTest`, `RecognitionIncentivesApiIntegrationTest` | Acreditación por eventos, canje, persistencia y endpoints |
 | Shared | — | `ResultTest`, `ErrorCodesTest`, `CorsPropertiesTest`, `SpringDomainEventPublisherTest`, `LatinAmericanSpanishLocaleResolverTest`, `JsonTest`, `DatabaseDefaultsTest`, `PostgresUrlConverterTest`, `HealthControllerTest`, `RootControllerTest`, `ApiDocumentationIntegrationTest` | Tipo `Result`, CORS, publicador de eventos, idioma es-419, conversión de `DATABASE_URL`, health check y documentación OpenAPI |
 
-*Nota.* Elaboración propia.
+*Nota.* Los montos por tipo de caso (40 SkillCredits por un miniproyecto y 25 por un quiz), los precios de canje de 200 y 120 SkillCredits y el tipo de caso se implementan en el PR `feature/verification-case-type` del repositorio `SkillSwap-WebServices-Java`, junto con la adopción de migraciones con Flyway (`chore/flyway-migrations`); ambos cambios están pendientes de revisión. Elaboración propia.
 
 **Tabla 23**
 
@@ -5421,10 +5423,10 @@ Todos los endpoints del Sprint 1 están documentados con **OpenAPI 3.1** (`Skill
 | GET | `/api/v1/student-employability-scores/{studentId}` | get-employability | Sí | Path: `studentId` | `200` `StudentEmployabilityResource` · `403` · `404` |
 | GET | `/api/v1/wallets/{userId}` | get-wallet | Sí | Path: `userId` | `200` `WalletResource` · `403` · `404` |
 | GET | `/api/v1/wallets/{userId}/transactions` | list-transactions | Sí | Path: `userId` | `200` arreglo de `CreditTransactionResource` · `403` · `404` |
-| POST | `/api/v1/credit-transactions/redeem` | redeem-credits | Sí | Body: `item` (`AdvancedPathUnlock` = 50 o `ContributionCertificate` = 30 SkillCredits) | `201` `CreditTransactionResource` · `400` · `404` · `409` saldo insuficiente |
+| POST | `/api/v1/credit-transactions/redeem` | redeem-credits | Sí | Body: `item` (`AdvancedPathUnlock` = 200 o `ContributionCertificate` = 120 SkillCredits) | `201` `CreditTransactionResource` · `400` · `404` · `409` saldo insuficiente |
 | GET | `/health` | health-check | No | — | `200` `HealthResource` |
 
-*Nota.* Elaboración propia.
+*Nota.* Los montos por tipo de caso (40 SkillCredits por un miniproyecto y 25 por un quiz), los precios de canje de 200 y 120 SkillCredits y el tipo de caso se implementan en el PR `feature/verification-case-type` del repositorio `SkillSwap-WebServices-Java`, junto con la adopción de migraciones con Flyway (`chore/flyway-migrations`); ambos cambios están pendientes de revisión. Elaboración propia.
 
 **Ejemplos de uso con datos de muestra**
 
